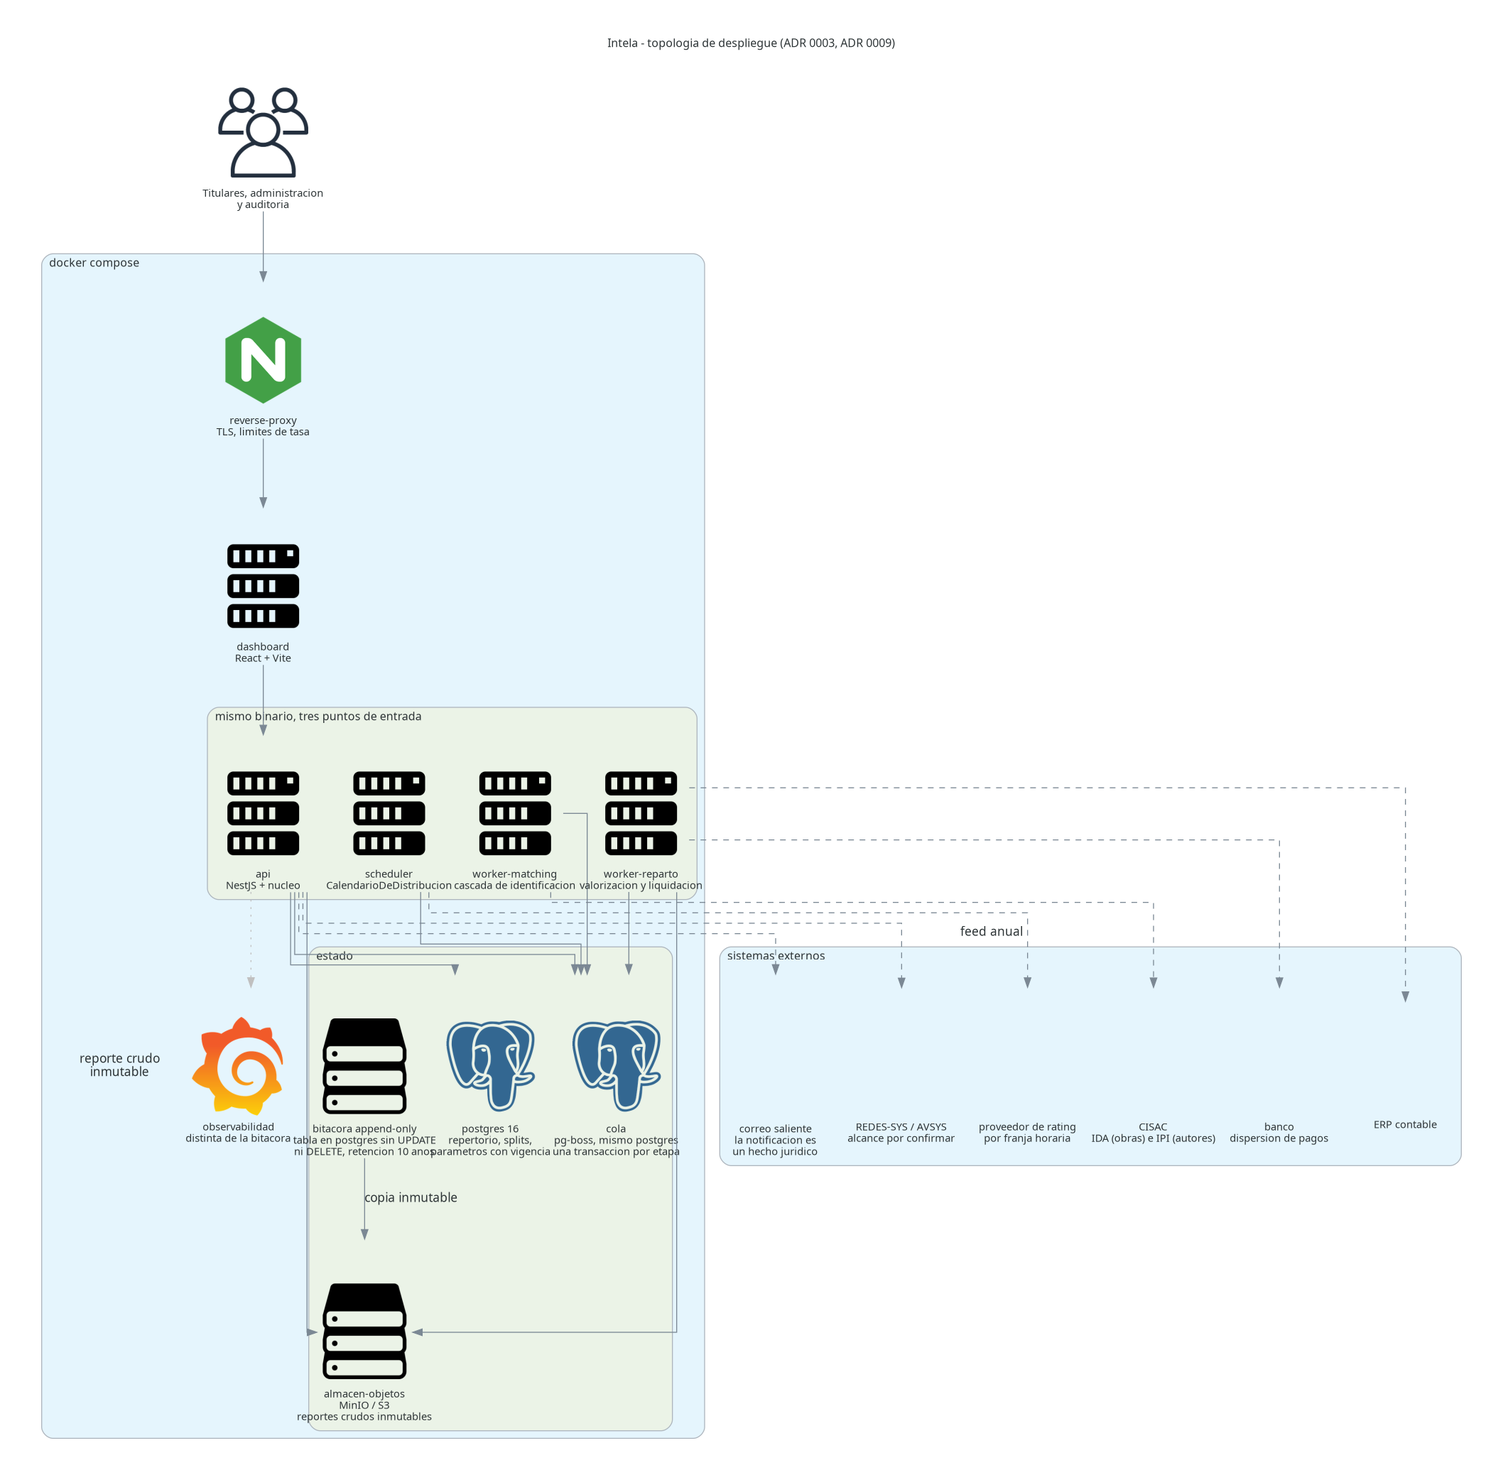
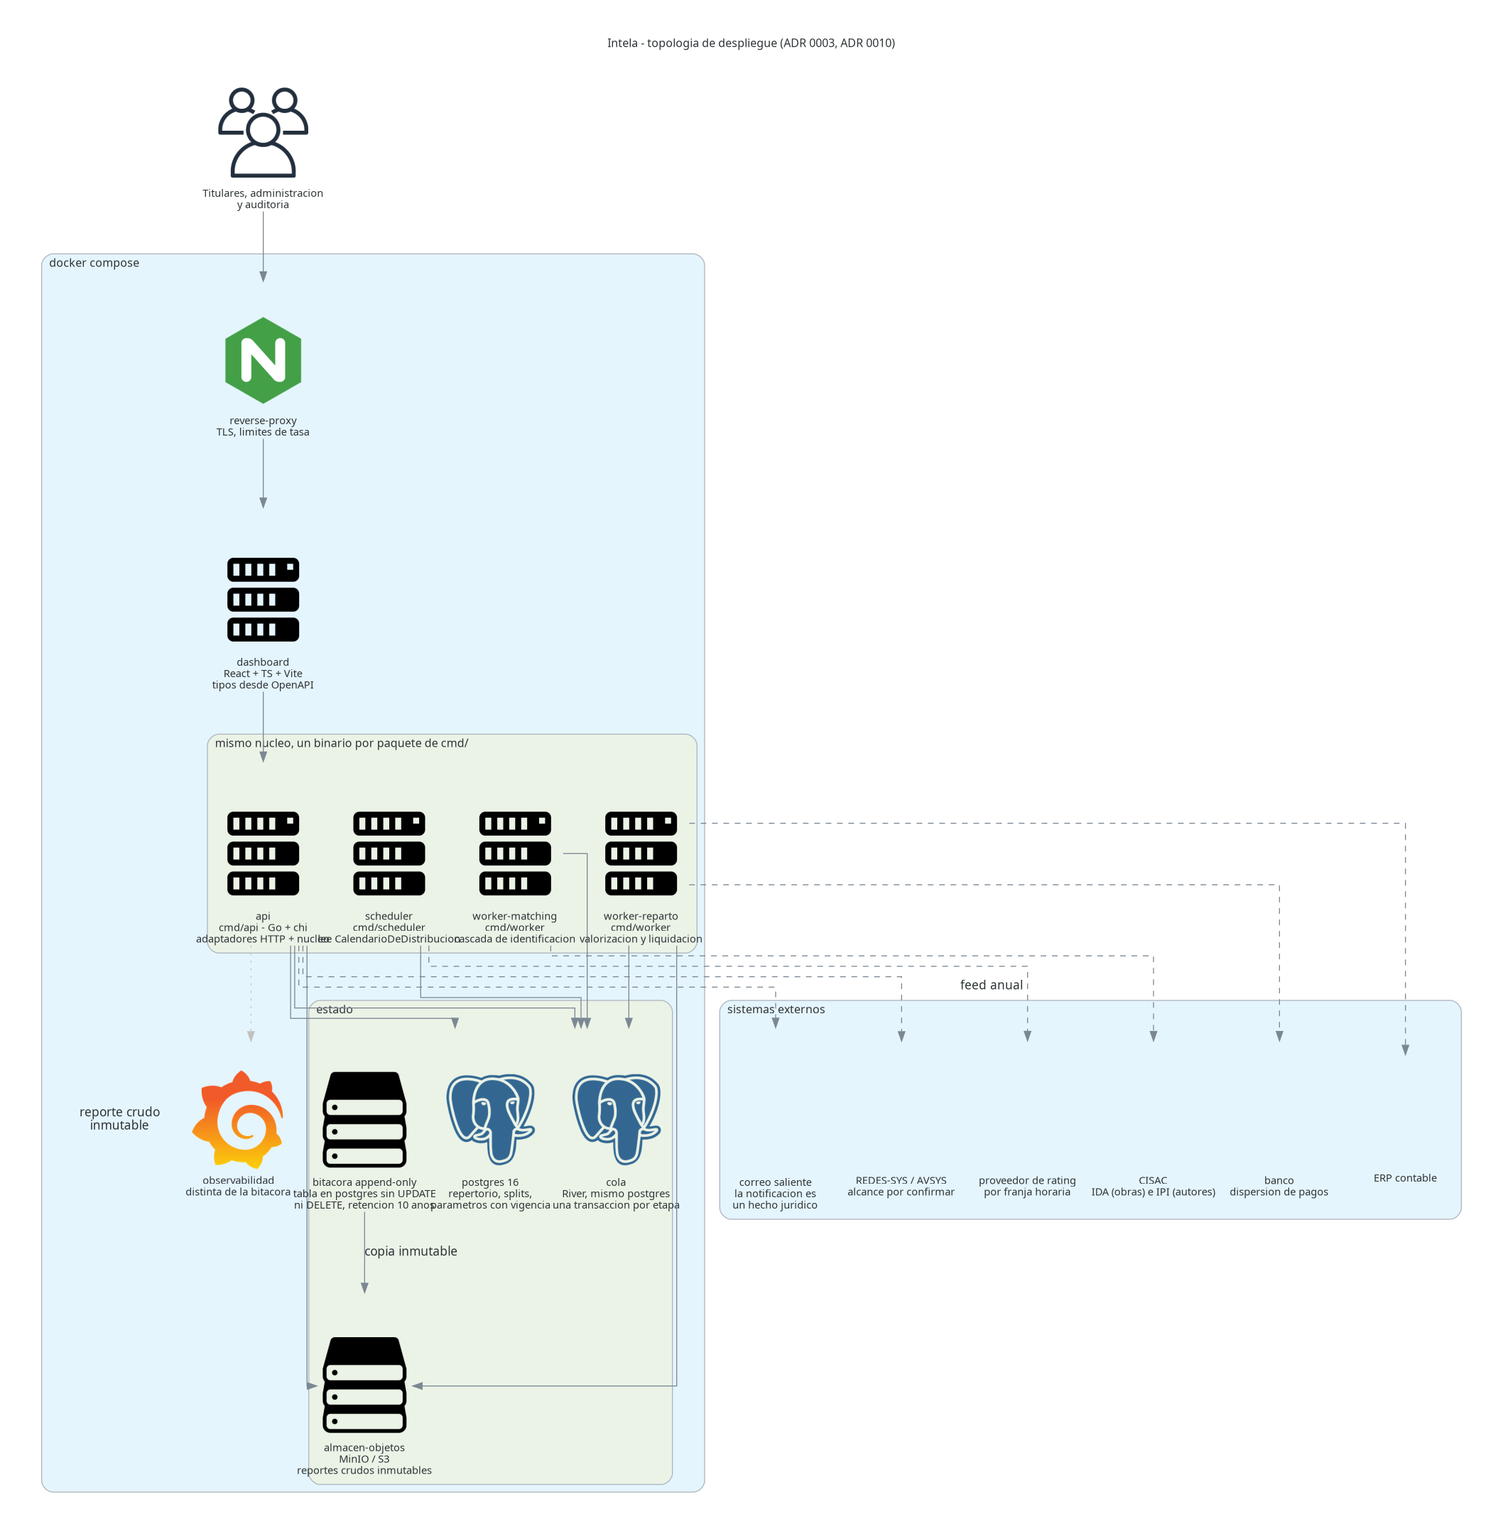
ADR 0010: el stack pasa a Go
Sustituye a 0009 (TypeScript + NestJS), escrita ayer. Dos hechos nuevos la
invalidan, y conviene revisarla ahora porque no hay una linea de codigo de
aplicacion escrita: en seis semanas el cambio deja de ser gratis.

Uno de los cuatro desarrolladores ya trabaja en Go, y es dueno de los
adaptadores, la normalizacion, la VM, las pruebas y el despliegue: exactamente
donde Go es dificil. El motor de dominio, que lo escribe alguien que aprende el
lenguaje, es la parte donde Go es mas facil, porque 0005 ya obliga a que sea
una funcion pura sin E/S, sin reloj y sin concurrencia.

Ademas 0003 pide tres puntos de entrada sobre un mismo nucleo, que en Go es el
idioma nativo (cmd/api, cmd/scheduler, cmd/worker) en vez de simularse con tres
ficheros de arranque.

Lo que gana: los ciclos de importacion son error de compilacion e internal/ es
frontera del compilador, asi que las reglas de 0002 y 0003 dejan de depender de
un fichero de configuracion que alguien puede debilitar con prisa. Y un
adaptador satisface un puerto sin importarlo: la arista adaptador -> puerto del
diagrama escrita como el lenguaje quiere.

Lo que pierde, y es el precio real: los tipos compartidos entre la API y los
tres portales. Ahora hace falta OpenAPI mas un paso de generacion, que corre en
CI para que un contrato viejo rompa la construccion y no la ejecucion.

Lo que no cambia: shopspring/decimal sigue siendo una dependencia igual que lo
[…]

diff --git a/src/scripts/diagrama_despliegue.py b/src/scripts/diagrama_despliegue.py
@@ -42,7 +42,7 @@ ATTRS = {
 NODE_ATTRS = {"fontsize": "11"}
 
 with Diagram(
-    "Intela - topologia de despliegue (ADR 0003, ADR 0009)",
+    "Intela - topologia de despliegue (ADR 0003, ADR 0010)",
     filename=str(SALIDA),
     outformat="png",
     show=False,
@@ -55,17 +55,17 @@ with Diagram(
     with Cluster("docker compose"):
         proxy = Nginx("reverse-proxy\nTLS, limites de tasa")
 
-        with Cluster("mismo binario, tres puntos de entrada"):
-            api = Server("api\nNestJS + nucleo")
-            scheduler = Server("scheduler\nCalendarioDeDistribucion")
-            worker_m = Server("worker-matching\ncascada de identificacion")
-            worker_r = Server("worker-reparto\nvalorizacion y liquidacion")
+        with Cluster("mismo nucleo, un binario por paquete de cmd/"):
+            api = Server("api\ncmd/api - Go + chi\nadaptadores HTTP + nucleo")
+            scheduler = Server("scheduler\ncmd/scheduler\nlee CalendarioDeDistribucion")
+            worker_m = Server("worker-matching\ncmd/worker\ncascada de identificacion")
+            worker_r = Server("worker-reparto\ncmd/worker\nvalorizacion y liquidacion")
 
-        dashboard = Server("dashboard\nReact + Vite")
+        dashboard = Server("dashboard\nReact + TS + Vite\ntipos desde OpenAPI")
 
         with Cluster("estado"):
             pg = PostgreSQL("postgres 16\nrepertorio, splits,\nparametros con vigencia")
-            cola = PostgreSQL("cola\npg-boss, mismo postgres\nuna transaccion por etapa")
+            cola = PostgreSQL("cola\nRiver, mismo postgres\nuna transaccion por etapa")
             objetos = Storage("almacen-objetos\nMinIO / S3\nreportes crudos inmutables")
             bitacora = Storage("bitacora append-only\ntabla en postgres sin UPDATE\nni DELETE, retencion 10 anos")
 

diff --git a/docs/decisiones/0010-stack-go.md b/docs/decisiones/0010-stack-go.md
@@ -1,0 +1,125 @@
+# 0010 Stack de aplicacion: Go
+
+Fecha: 2026-08-23
+Estado: Vigente
+Sustituye a: [0009 Stack de aplicacion: TypeScript y NestJS](0009-stack-typescript-nestjs.md)
+
+## Contexto
+
+`0009` eligio TypeScript y NestJS hace un dia. La razon principal era tener un solo lenguaje
+entre la API y los tres portales, con un paquete de contratos compartido. Esa ADR dejo escritas
+tres consecuencias que habia que asumir: sin decimal nativo, sin `rapidfuzz`, y los decoradores de
+NestJS empujando hacia el dominio.
+
+Dos hechos nuevos obligan a revisarla, y conviene revisarla **ahora**: todavia no hay una linea de
+codigo de aplicacion escrita, asi que el cambio es gratis. En seis semanas no lo sera.
+
+**El primero: uno de los cuatro desarrolladores ya trabaja en Go**, y es quien tiene asignados los
+adaptadores de adquisicion, la normalizacion, la VM, la observabilidad, las pruebas automatizadas y
+el despliegue. Es decir, es dueno de exactamente la parte donde Go es dificil —interfaces,
+`context`, concurrencia, empaquetado— mientras que el motor de dominio, que lo escribe alguien que
+aprenderia el lenguaje, es la parte donde Go es mas facil: `0005` ya obliga a que sea una funcion
+pura, sin E/S, sin reloj y sin concurrencia. La curva de aprendizaje cae justo donde no hay riesgo.
+
+**El segundo: `0003` pide un solo binario con tres puntos de entrada** (`api`, `scheduler`,
+`worker`). En Node eso se simula con tres ficheros de arranque que seleccionan modulos distintos.
+En Go es el idioma nativo del lenguaje: tres paquetes bajo `cmd/`, un binario cada uno, el mismo
+nucleo compilado una vez.
+
+Y hay un tercer hecho que no es nuevo pero que pesa distinto visto desde aqui. `0002` y `0003`
+nombraron el mismo riesgo asumido: que la frontera se erosione sola, y que nadie lo note hasta la
+auditoria. La mitigacion que `0009` eligio fue `dependency-cruiser`, un fichero de configuracion
+que alguien puede debilitar a las dos de la manana antes de una entrega. En Go una parte de esa
+garantia deja de ser configuracion y pasa a ser el compilador.
+
+## Decision
+
+**Go para todo el backend. React con TypeScript se queda en el frontend.**
+
+| Capa | Tecnologia | Que gana respecto a `0009` |
+| ---- | ---------- | -------------------------- |
+| `internal/dominio/` | Go + `shopspring/decimal` | El compilador prohibe importar `internal/` desde fuera de su padre |
+| `internal/aplicacion/` | Casos de uso; los puertos son `interface` declaradas aqui | El adaptador **satisface la interfaz sin importarla**: la inversion de dependencia es el comportamiento por defecto del lenguaje, no una convencion |
+| `internal/infraestructura/` | `chi` o `net/http` de la biblioteca estandar | Sin framework que quiera ser dueno de los handlers. Desaparece el riesgo de los decoradores |
+| `cmd/{api,scheduler,worker}/` | Un `main` por punto de entrada | Es literalmente lo que pide `0003` |
+| Persistencia | `pgx` v5 + `sqlc`, PostgreSQL 16 | SQL primero, con tipos generados desde el SQL. `pgx` escanea `NUMERIC` directo a `decimal.Decimal` |
+| Cola | `River` (respaldada por PostgreSQL) | Encolado transaccional: conserva la transaccion local por etapa que exige `0003` |
+| Migraciones | `goose` | — |
+| Planificador | Temporizador leyendo `CalendarioDeDistribucion` | `0004`: el planificador no es dueno de las fechas |
+| Similitud | `pg_trgm` + `unaccent` tras `PuertoMotorDeSimilitud` | Igual que en `0009`. Sin cambio |
+| Objetos | MinIO local con object-lock, S3 en produccion | Sin cambio |
+| Frontend | React + TypeScript + Vite | Sin cambio |
+| Contratos | Especificacion OpenAPI → `openapi-typescript` | **Peor que `0009`.** Ver consecuencias |
+| Exportables | `excelize` (Excel), `maroto` o Chrome headless (PDF) | — |
+| Pruebas | `testing` estandar, `testcontainers-go`, `rapid` para propiedades | `rapid` cubre lo que cubria `fast-check` |
+| Frontera | El compilador, mas `depguard` dentro de `golangci-lint` | Los ciclos de importacion son **error de compilacion** |
+| Observabilidad | `log/slog` de la biblioteca estandar + OpenTelemetry | Una dependencia menos |
+| Despliegue | Binario estatico en imagen distroless, `docker compose` | Sin runtime ni `node_modules` en la imagen |
+
+Los scripts de `src/scripts/` **siguen en Python** con PEP 723, igual que en `0009`.
+
+### Lo que la frontera gana en concreto
+
+Tres cosas que en `0009` dependian de disciplina o de configuracion:
+
+1. **Los ciclos de importacion no compilan.** Las reglas de `0003` —`Reparto` lee de `Repertorio` y
+   de `Recaudo`, y ninguno de los dos conoce a `Reparto`— dejan de ser un contrato que se revisa y
+   pasan a ser una condicion para que el programa exista.
+2. **`internal/` es una frontera del compilador.** Un paquete bajo `internal/` no se puede importar
+   desde fuera de su arbol. La frontera de modulo tiene respaldo del lenguaje.
+3. **Los puertos no se importan para implementarlos.** El adaptador de PostgreSQL no menciona el
+   paquete del nucleo: define los metodos y satisface la interfaz. Es la arista
+   `adaptador → puerto` del diagrama, escrita como el lenguaje quiere que se escriba.
+
+## Alternativas consideradas
+
+**Quedarse en TypeScript y NestJS (`0009`).** Sigue siendo una opcion razonable y su argumento
+principal —un lenguaje, contratos compartidos— es real y se pierde con este cambio. Se descarta
+porque el desarrollador con experiencia en Go es dueno de los adaptadores, las pruebas y el
+despliegue, que es donde Go rinde, y porque el motor de dominio que aprende el lenguaje es codigo
+puro sin concurrencia. Si esa asignacion de roles cambia, esta ADR hay que revisarla.
+
+**Java 21 con Spring Boot.** Sigue siendo la unica de las tres con `BigDecimal` nativo y con
+ArchUnit, que es la herramienta de prueba de arquitectura mas madura que existe. Descartada otra
+vez por la misma razon que en `0009`: con tres meses y cuatro personas, la curva de Spring compite
+con el tiempo de entender el dominio, que es donde esta el riesgo real.
+
+**Go en el backend y Go tambien en el frontend** con WASM o con plantillas del lado del servidor.
+Descartada: OE-6 pide un panel con filtros por obra, fuente y periodo y exportables, y el
+desarrollador de reporteria trabaja en React. Cambiar tambien el frontend no compra nada y cuesta
+la unica parte del stack que ya estaba resuelta.
+
+**Mantener NestJS para la API y escribir solo el motor de reparto en Go.** Descartada: dos runtimes,
+dos cadenas de construccion y una frontera de proceso en medio de una transaccion que `0003` quiere
+local. Se pagaria la complejidad de los microservicios sin ninguna de sus ventajas.
+
+## Consecuencias
+
+Positivas: la regla de dependencia de `0002` y las fronteras de modulo de `0003` pasan a estar
+respaldadas por el compilador y no solo por un fichero de configuracion. `cmd/` da los tres puntos
+de entrada de `0003` sin simularlos. El binario estatico simplifica la imagen y el
+`docker compose` que pide `docs/context.md`. Y `pgx` escaneando `NUMERIC` a `decimal.Decimal`
+elimina el punto mas silencioso de `0009`, donde una cifra podia volverse `number` sin que nada
+fallara.
+
+A cambio, y esto es el precio real del cambio: **se pierden los tipos compartidos entre la API y
+los tres portales.** Ahora hace falta una especificacion OpenAPI y un paso de generacion hacia
+TypeScript. Es friccion nueva en cada cambio de contrato, y es la razon por la que `0009` habia
+elegido TypeScript. La mitigacion es que la generacion corra en CI y que un contrato desactualizado
+rompa la construccion del frontend, no la ejecucion.
+
+Ademas: `shopspring/decimal` es una dependencia igual que lo era `decimal.js`, asi que el decimal
+exacto de `0005` sigue sin ser una propiedad del lenguaje. Y el matching difuso no mejora: sigue
+siendo `pg_trgm` detras del puerto, con la puerta abierta a un servicio en Python cuando lleguen
+datos reales (`0007`).
+
+Riesgo asumido: que el motor de dominio lo escriba alguien mientras aprende el lenguaje. Se acepta
+porque `0005` obliga a que ese motor sea una funcion pura —sin E/S, sin reloj, sin aleatoriedad y
+sin concurrencia—, que es el Go mas sencillo que existe, y porque hay alguien en el equipo a quien
+preguntarle. La mitigacion es que las dos primeras semanas el motor se escriba en pareja, y que las
+pruebas de reproducibilidad de `0005`, con los ejemplos numericos del propio reglamento, esten
+desde el primer commit del motor y no al final.
+
+Riesgo secundario: que la especificacion OpenAPI se quede atras respecto al codigo y el frontend
+consuma tipos que ya no existen. Por eso la generacion es un paso de CI y no un comando que alguien
+recuerda correr.

diff --git a/README.md b/README.md
@@ -90,44 +90,51 @@ rompa algo que se decidio a proposito.
 | [0006](docs/decisiones/0006-trazabilidad-como-asiento-append-only.md) | La trazabilidad es un libro de asientos del dominio, no un log de aplicacion |
 | [0007](docs/decisiones/0007-identificacion-en-cascada-con-cola-manual.md) | Cascada de cuatro escalones contra el catalogo maestro, con cola manual al final |
 | [0008](docs/decisiones/0008-reparto-como-flujo-con-aprobaciones.md) | Dos maquinas de estado con compuertas de doble firma, no una con un `if` |
-| [0009](docs/decisiones/0009-stack-typescript-nestjs.md) | TypeScript y NestJS, con el nucleo libre de framework |
+| [0009](docs/decisiones/0009-stack-typescript-nestjs.md) | ~~TypeScript y NestJS~~ — **sustituida por 0010** |
+| [0010](docs/decisiones/0010-stack-go.md) | Go en el backend; la regla de dependencia pasa a ser cosa del compilador |
 
 ---
 
 ## Stack
 
-Decidido en [ADR 0009](docs/decisiones/0009-stack-typescript-nestjs.md). Un solo desplegable con
-tres puntos de entrada (`api`, `scheduler`, `worker`) desde el mismo build.
+Decidido en [ADR 0010](docs/decisiones/0010-stack-go.md), que sustituye a
+[0009](docs/decisiones/0009-stack-typescript-nestjs.md). Go en el backend, React en el frontend.
+Un solo binario por punto de entrada (`api`, `scheduler`, `worker`), como fija `0003`.
 
 | Capa | Tecnologia | Por que |
 | ---- | ---------- | ------- |
-| `domain/` | TypeScript + `decimal.js`, **sin framework** | La regla de dependencia de `0002` |
-| `application/` | Casos de uso, puertos como `interface` | Declara contratos; no sabe quien los implementa |
-| `infrastructure/` | NestJS 11, Drizzle ORM, PostgreSQL 16 | Los decoradores y el SQL viven aqui, no mas adentro |
-| Cola | `pg-boss` sobre el mismo postgres | `0003` quiere una transaccion local por etapa |
-| Planificador | `@nestjs/schedule` sobre `CalendarioDeDistribucion` | `0004`: no es dueno de las fechas |
+| `internal/dominio/` | Go + `shopspring/decimal` | El compilador prohibe importar `internal/` desde fuera |
+| `internal/aplicacion/` | Casos de uso; puertos como `interface` | El adaptador satisface la interfaz **sin importarla** |
+| `internal/infraestructura/` | `chi` o `net/http` estandar | Sin framework que quiera ser dueno de los handlers |
+| `cmd/{api,scheduler,worker}/` | Un `main` por punto de entrada | Es literalmente lo que pide `0003` |
+| Persistencia | `pgx` v5 + `sqlc`, PostgreSQL 16 | SQL primero; `NUMERIC` escanea directo a `decimal.Decimal` |
+| Cola | `River` sobre el mismo postgres | Encolado transaccional: una transaccion local por etapa |
+| Migraciones | `goose` | — |
+| Planificador | Temporizador sobre `CalendarioDeDistribucion` | `0004`: no es dueno de las fechas |
 | Similitud | `pg_trgm` + `unaccent` tras `PuertoMotorDeSimilitud` | `0007`: sustituible sin tocar la cascada |
 | Objetos | MinIO local con object-lock, S3 en produccion | `0005`: reportes crudos inmutables |
 | Frontend | React + TypeScript + Vite | Tres portales con RBAC por roles del reglamento |
-| Exportables | `exceljs`, `@react-pdf/renderer` | OE-6 pide PDF y Excel |
-| Pruebas | Vitest, `fast-check`, Testcontainers | El motor se prueba sin infraestructura |
-| Arquitectura | **`dependency-cruiser`** en CI | La mitigacion que `0002` y `0003` exigian |
-| Observabilidad | `pino` + OpenTelemetry | Separada de la bitacora, que es dominio |
-| Despliegue | `docker compose` | Lo exige `docs/context.md` |
+| Contratos | OpenAPI → `openapi-typescript` | El precio del cambio; ver abajo |
+| Exportables | `excelize`, `maroto` | OE-6 pide Excel y PDF |
+| Pruebas | `testing`, `testcontainers-go`, `rapid` | El motor se prueba sin infraestructura |
+| Frontera | El compilador, mas `depguard` en `golangci-lint` | Los ciclos de importacion **no compilan** |
+| Observabilidad | `log/slog` + OpenTelemetry | Separada de la bitacora, que es dominio |
+| Despliegue | Binario estatico, imagen distroless, `docker compose` | Lo exige `docs/context.md` |
 
-### Las tres consecuencias de elegir TypeScript
+### Que gana y que pierde este stack
 
-Estan razonadas en la ADR; en corto:
+Gana en la frontera, que es donde esta el riesgo del proyecto. Los ciclos de importacion son error
+de compilacion, `internal/` es una frontera del compilador, y un adaptador implementa un puerto sin
+nombrarlo. Las reglas de `0002` y `0003` dejan de depender de un fichero de configuracion que
+alguien puede debilitar con prisa.
 
-1. **No hay decimal nativo.** `decimal.js` y `NUMERIC(18,6)`, y el driver devuelve `numeric` como
-   **cadena, nunca `number`**. Un `parseFloat` en el camino no rompe nada visible: solo hace que
-   la cifra deje de ser reproducible.
-2. **No hay `rapidfuzz`.** El matching arranca con `pg_trgm`. El escalon difuso esta detras de un
-   puerto, asi que un servicio Python puede sustituirlo mas adelante.
-3. **NestJS empuja hacia dentro.** Sus decoradores no pueden alcanzar `domain/` ni `application/`,
-   y `dependency-cruiser` lo verifica en cada commit.
+Pierde los tipos compartidos entre la API y los portales, que era el argumento principal de `0009`.
+Ahora hace falta una especificacion OpenAPI y un paso de generacion, que corre en CI para que un
+contrato desactualizado rompa la construccion y no la ejecucion.
 
----
+No cambia nada en dos frentes: `shopspring/decimal` sigue siendo una dependencia, igual que lo era
+`decimal.js`, asi que el decimal exacto de `0005` no es una propiedad del lenguaje; y el matching
+difuso sigue siendo `pg_trgm` detras del puerto.
 
 ## Skills
 

diff --git a/docs/decisiones/README.md b/docs/decisiones/README.md
@@ -20,8 +20,9 @@ proposito.
 | [0006 La trazabilidad es un asiento append-only](0006-trazabilidad-como-asiento-append-only.md) | Vigente |
 | [0007 Identificacion de obras en cascada, con cola manual](0007-identificacion-en-cascada-con-cola-manual.md) | Vigente |
 | [0008 El reparto es un flujo con compuertas humanas](0008-reparto-como-flujo-con-aprobaciones.md) | Vigente |
-| [0009 Stack de aplicacion: TypeScript y NestJS](0009-stack-typescript-nestjs.md) | Vigente |
+| [0009 Stack de aplicacion: TypeScript y NestJS](0009-stack-typescript-nestjs.md) | Sustituida por 0010 |
+| [0010 Stack de aplicacion: Go](0010-stack-go.md) | Vigente |
 
-El diagrama que materializa `0002`, `0003`, `0008` y `0009` es `docs/PATIC2 - Arquitectura.drawio`.
+El diagrama que materializa `0002`, `0003`, `0008` y `0010` es `docs/PATIC2 - Arquitectura.drawio`.
 Que el diagrama cumpla lo que `0002` y `0003` prometen se comprueba con
 `uv run --script src/scripts/check_arquitectura.py`.

diff --git a/.claude/skills/reparto-y-distribucion/SKILL.md b/.claude/skills/reparto-y-distribucion/SKILL.md
@@ -22,6 +22,13 @@ Nunca sumar una columna de dinero por obra. Ningun reporte de uso trae importes.
 
 De donde sale la bolsa es otro modulo: ver `recaudo-y-tarifas`.
 
+**Con una excepcion, y es importante: lo anterior vale para el recaudo NACIONAL.** En el
+internacional el reporte de la sociedad hermana **si discrimina montos por titular**, y de hecho
+*es* la liquidacion: `RD 7.4` obliga a repartir exactamente en esa proporcion, sin que los montos
+puedan modificarse, asignarse a otra persona ni alterarse. Ahi no hay bolsa que ponderar ni
+valorizacion que calcular. Confundir los dos casos lleva a aplicar una ponderacion por tipo de obra
+a un reparto internacional, que es justo lo que el reglamento prohibe. Ver `proceso-y-aprobaciones`.
+
 ## Antes de escribir el calculo
 
 Leer `docs/dominio/formulas.md` completo. Tiene las cuatro formulas (TV, cine y teatro,

diff --git a/docs/decisiones/0009-stack-typescript-nestjs.md b/docs/decisiones/0009-stack-typescript-nestjs.md
@@ -1,7 +1,14 @@
 # 0009 Stack de aplicacion: TypeScript y NestJS
 
 Fecha: 2026-08-22
-Estado: Vigente
+Estado: **Sustituida** por [0010 Stack de aplicacion: Go](0010-stack-go.md) el 2026-08-23
+
+> **Sustituida.** Un dia despues de escribirse aparecieron dos hechos que la invalidan: uno de
+> los desarrolladores ya trabaja en Go y es dueno de los adaptadores, las pruebas y el despliegue;
+> y `0003` pide tres puntos de entrada sobre un mismo binario, que en Go es el idioma nativo. El
+> razonamiento de abajo se conserva porque las alternativas que descarto —Python y Java— siguen
+> descartadas por las mismas razones, y porque el precio del cambio, perder los tipos compartidos
+> con el frontend, solo se entiende leyendo por que se habian elegido. Ver [0010](0010-stack-go.md).
 
 ## Contexto
 
